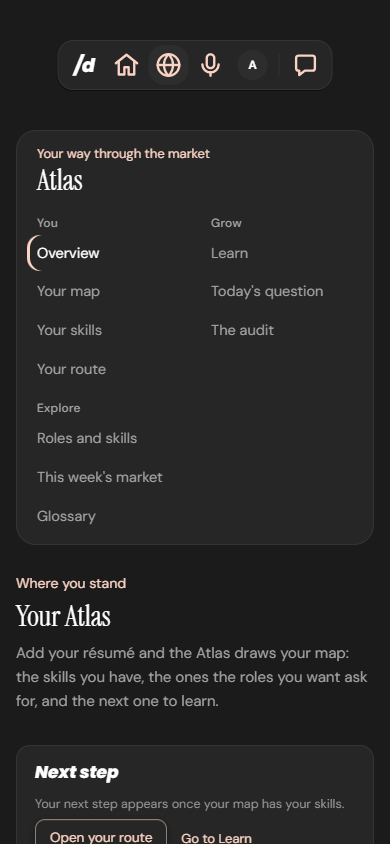
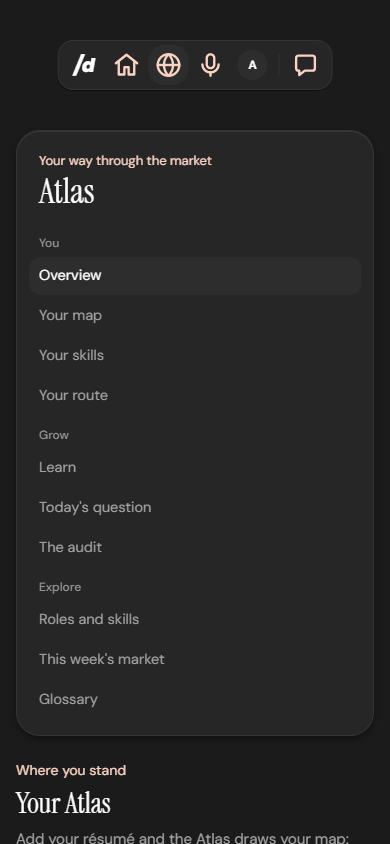
D178: Atlas nav regrouped into You and Grow; old addresses redirect
D178: the Atlas nav regrouped - You = Your run, Your map, Your skills; Grow = Library, Today's question, The audit; the old addresses redirect

The redirects D178-1 held back until each new home existed:
- /atlas/your-route is an alias of Your map; the navigator (D143) is drawn inside Your map, under the track board.
- Overview leaves the nav: signed out it stays Atlas's front page (/atlas, /atlas/overview); signed in the mount opens Your run.
- /atlas/learn redirects to /atlas/library/silicon-to-software?view=circle, the #step-<id> carried; the course page gains
  Modules / The circle tabs, The circle mounting the full Learn view (circle, path, patterns, concept index).
- panelFor: "overview" and "learn" left PANEL_IDS and fell through to Roles and skills; they now light the front page and
  the Library. Overview's stat cards and links point at Your map / the Library directly.

Pins changed on purpose: d167 nav groups + panelFor + surfaces, d115 (LearnView's mount), d172 (the route between the board
and the tree), d178 (the redirects asserted, not deferred). docs/D178_ATLAS_INVENTORY.md and docs/D167_ATLAS_MAP.md updated.

Verified: 412 Atlas / Learn / guard tests, 411 / 1 (the known d118, the untracked practice-questions draft); vite build;
real Chrome on a local draft (throwaway DB copy, a synthetic account) at 1440 and 390, signed out and in: /atlas, /atlas/overview,
[…]

diff --git a/client/src/pages/atlas/AtlasPage.jsx b/client/src/pages/atlas/AtlasPage.jsx
@@ -13,16 +13,15 @@
 // then "To reach the next level"; its definition shows on top when one exists, and no "not written yet" line otherwise.
 // Every colour is a theme token (AtlasPage.css); no pills — marks and depth boxes (D60).
 import { useEffect, useState } from "react";
-import { Link, useLocation, useNavigate } from "react-router-dom";
+import { Link, Navigate, useLocation, useNavigate } from "react-router-dom";
 import ScrollDock from "../../components/ScrollDock.jsx";
 import { Footer } from "../../components/Footer.jsx";
 import DepthButton from "../../components/DepthButton.jsx";
 import { BRAND } from "../../../../shared/brand.js";
 import AtlasGraph from "./AtlasGraph.jsx";
-import LearnView from "./LearnView.jsx";
 import YourMap, { RoleMap, FamilyMap } from "./YourMap.jsx";
 import PlaceNav from "../../components/PlaceNav.jsx";
-import { OverviewPanel, YourSkillsSlot, YourRoutePanel, LearnStages, TodaysQuestionPanel, AuditPanel, RolesPanel, MarketPanel, GlossaryPanel,
+import { OverviewPanel, YourSkillsSlot, YourRoutePanel, TodaysQuestionPanel, AuditPanel, RolesPanel, MarketPanel, GlossaryPanel,
   PanelHead } from "./AtlasPanels.jsx";
 import { panelFor, isPanelSlug, PANEL_LABEL, ATLAS_NAV, panelHref, courseIdOf } from "./atlasPanels.js";
 import { LibraryShelf, CoursePage, COURSES } from "./LibraryPanel.jsx";
@@ -387,8 +386,9 @@ export default function AtlasPage({ base = "/atlas", publicChrome = false }) {
   // panel it opens. Every address lights the panel it belongs to (atlasPanels.js panelFor); the older addresses keep
   // working — a node page and a search open in Roles and skills, a family in Your map, /learn in Learn, /check in Your
   // skills. docs/D167_ATLAS_MAP.md maps every surface that existed to its panel.
-  const panel = panelFor(slug, q);
   const signedIn = base.startsWith("/app");
+  // ⭐ D178: signed in, Atlas opens on Your run (Overview is the signed-out front page).
+  const panel = panelFor(slug, q) === "overview" && signedIn ? "your-run" : panelFor(slug, q);
   const panelOnly = !slug ? !q : (isPanelSlug(slug) && !learning && !checking);
   const body = (
     <main className={`atl atl--panels${wide ? " atl--wide" : ""}`} data-atlas-page={learning ? "learn" : checking ? "check" : familyKey ? "family" : courseId ? "course" : panelOnly ? "panel" : slug ? "node" : "search"}
@@ -401,12 +401,16 @@ export default function AtlasPage({ base = "/atlas", publicChrome = false }) {
           pages are Roles and skills', the navigator is Your route's. A query is the search page as before. */}
       {!slug && q && <AtlasSearch base={base} q={q} />}
       {panelOnly && panel === "overview" && <OverviewPanel base={base} />}
+      {/* ⭐ D178: Learn's address → the course's circle view, the same piece selected (#step-<id> carried). */}
+      {learning && <Navigate replace to={`${base}/library/silicon-to-software?view=circle${location.hash || ""}`} />}
       {panel === "your-map" && !familyKey && (
         <div className="atl-pan" data-atlas-panel-body="your-map">
           {/* ⭐ D172 (4): the map as a track board first — from you to your goal; the market tree below, on demand. */}
           {signedIn && <PanelHead eyebrow="Your map" title="A clear picture of where you are"
             lead="From what you have to where you're going." />}
           <TrackBoard base={base} signedIn={signedIn} />
+          {/* ⭐ D178: Your route folded in — the aim, the route in order, the roles to apply to meanwhile (D143's navigator). */}
+          {signedIn && <section className="atl__section" data-atlas-route-in-map=""><YourRoutePanel base={base} signedIn={signedIn} /></section>}
           <details className="atl-more" data-atlas-market-tree="" open={!signedIn}>
             <summary className="atl__link">See the whole market around you</summary>
             <PanelHead eyebrow="Your map" title="Your skills, against the market"
@@ -416,8 +420,6 @@ export default function AtlasPage({ base = "/atlas", publicChrome = false }) {
         </div>
       )}
       {panel === "your-skills" && <YourSkillsSlot signedIn={signedIn} base={base} />}
-      {panel === "your-route" && <YourRoutePanel base={base} signedIn={signedIn} />}
-      {learning && <LearnStages base={base} signedIn={signedIn} />}
       {panel === "todays-question" && <TodaysQuestionPanel base={base} />}
       {panel === "the-audit" && <AuditPanel base={base} />}
       {panel === "roles-and-skills" && panelOnly && (
@@ -425,7 +427,6 @@ export default function AtlasPage({ base = "/atlas", publicChrome = false }) {
       )}
       {panel === "this-weeks-market" && <MarketPanel base={base} />}
       {panel === "glossary" && <GlossaryPanel base={base} />}
-      {learning && <LearnView signedIn={base.startsWith("/app")} />}
       {familyKey && <FamilyMap base={base} familyKey={familyKey} />}
       {panel === "your-run" && <YourRun base={base} signedIn={signedIn} />}
       {panel === "library" && panelOnly && <LibraryShelf base={base} signedIn={signedIn} />}

diff --git a/test/d167Atlas.test.js b/test/d167Atlas.test.js
@@ -85,9 +85,11 @@ function mapWorld() {
 test("D167 · d167AtlasHasOwnNav — the card: the eyebrow, the serif headline, three groups in the sketch's order", async () => {
   assert.deepEqual(ATLAS_NAV.map(g => [g.group, g.panels.map(p => p.label)]), [
     // ⭐ D172 (3) (changed on purpose): Your run, first in You, as the approved sketch draws it.
-    ["You", ["Your run", "Overview", "Your map", "Your skills", "Your route"]],
+    // ⭐ D178 (changed on purpose, the nav regrouped): Overview is the signed-out front page; Your route is in Your map.
+    ["You", ["Your run", "Your map", "Your skills"]],
     // ⭐ D172 (2) (changed on purpose): the Library, first in Grow, as the approved sketch draws it.
-    ["Grow", ["Library", "Learn", "Today's question", "The audit"]],
+    // ⭐ D178 (changed on purpose): Learn is the course's circle view, inside the Library.
+    ["Grow", ["Library", "Today's question", "The audit"]],
     ["Explore", ["Roles and skills", "This week's market", "Glossary"]],
   ]);
   const u = await loadUi();
@@ -147,7 +149,10 @@ test("D167 · d167AtlasKeepsEverySurface — every older address still opens, an
   assert.equal(panelFor("kubernetes"), "roles-and-skills", "a node's page");
   assert.equal(panelFor("data-engineer"), "roles-and-skills", "a role's page");
   assert.equal(panelFor("family/data"), "your-map", "a family's page");
-  assert.equal(panelFor("learn"), "learn");
+  // ⭐ D178 (changed on purpose): /atlas/learn redirects to the course's circle view and lights the Library.
+  assert.equal(panelFor("learn"), "library");
+  assert.equal(panelFor("your-route"), "your-map", "D178: Your route is folded into Your map");
+  assert.equal(panelFor("overview"), "overview", "D178: /atlas/overview is still the front page");
   assert.equal(panelFor("check"), "your-skills", "D142's check");
   assert.ok(isPanelSlug("check") && isPanelSlug("glossary") && !isPanelSlug("kubernetes") && !isPanelSlug("family/data"));
   const u = await loadUi();
@@ -173,8 +178,11 @@ test("D167 · d167AtlasKeepsEverySurface — each existing surface is mounted by
   assert.match(page, /\{!slug && q && <AtlasSearch base=\{base\} q=\{q\} \/>\}/);
   assert.match(page, /<AtlasNodeView base=\{base\} node=\{page\.node\}/);
   assert.match(page, /\{familyKey && <FamilyMap base=\{base\} familyKey=\{familyKey\} \/>\}/);
-  assert.match(page, /\{learning && <LearnView signedIn=\{base\.startsWith\("\/app"\)\} \/>\}/);
-  assert.match(page, /\{learning && <LearnStages base=\{base\} signedIn=\{signedIn\} \/>\}/, "Learn: the sketch's stages, then the full view");
+  // ⭐ D178 (changed on purpose): Learn's address redirects to the course's circle view, which mounts the full Learn view.
+  assert.ok(page.includes('{learning && <Navigate replace to={`${base}/library/silicon-to-software?view=circle${location.hash || ""}`} />}'));
+  assert.ok(read("client/src/pages/atlas/LibraryPanel.jsx").includes('{view === "circle" && <div data-course-circle-view=""><LearnView signedIn={signedIn} /></div>}'));
+  // ⭐ D178: Your route's navigator is drawn inside Your map.
+  assert.ok(page.includes('{signedIn && <section className="atl__section" data-atlas-route-in-map=""><YourRoutePanel base={base} signedIn={signedIn} /></section>}'));
   // 5, 8, 10, 12 · Your map: the tree, the course, the sections, the families (and the signed-out line + course).
   assert.match(page, /\{panel === "your-map" && !familyKey && \(/);
   assert.match(page, /<YourMap base=\{base\} parts=\{\{ navigator: false, explore: false, families: true, recent: false \}\} \/>/);
@@ -224,7 +232,7 @@ test("D167 · panels whose feature is not built say so, and draw only numbers th
   // Overview: stat cards only from the readiness record and the navigator; no streak, no invented count.
   assert.deepEqual(overviewStats({}), []);
   const stats = overviewStats({ readiness: [{ state: "checked" }, { state: "built" }, { state: "claimed" }], nav: { ready: true, bridges: [{}, {}], route: { role: "Data Engineer", skills: [{}, {}, {}] } } });
-  assert.deepEqual(stats.map(s => [s.value, s.panel]), [["2 of 3", "your-skills"], ["2", "your-route"], ["3", "your-route"]]);
+  assert.deepEqual(stats.map(s => [s.value, s.panel]), [["2 of 3", "your-skills"], ["2", "your-map"], ["3", "your-map"]]);
   const out = u.overview({ me: { signedIn: false } });
   assert.doesNotMatch(out, /data-atlas-overview-stats/);
   assert.match(out, /The daily question is not built yet/);

diff --git a/client/src/pages/atlas/atlasPanels.js b/client/src/pages/atlas/atlasPanels.js
@@ -13,15 +13,12 @@ export const ATLAS_NAV = Object.freeze([
   { group: "You", panels: [
     // ⭐ D172 (3): Your run — your level, points from proof, streak and today's quests.
     { id: "your-run", label: "Your run" },
-    { id: "overview", label: "Overview" },
     { id: "your-map", label: "Your map" },
     { id: "your-skills", label: "Your skills" },
-    { id: "your-route", label: "Your route" },
   ] },
   { group: "Grow", panels: [
     // ⭐ D172 (2): the Library — the courses as a shelf; /atlas/library/<course> is a course's page.
     { id: "library", label: "Library" },
-    { id: "learn", label: "Learn" },
     { id: "todays-question", label: "Today's question" },
     { id: "the-audit", label: "The audit" },
   ] },
@@ -35,7 +32,11 @@ export const ATLAS_NAV = Object.freeze([
 export const PANEL_IDS = Object.freeze(ATLAS_NAV.flatMap(g => g.panels.map(p => p.id)));
 export const PANEL_LABEL = Object.freeze(Object.fromEntries(ATLAS_NAV.flatMap(g => g.panels.map(p => [p.id, p.label]))));
 /** Older reserved addresses that now open a panel. */
-export const PANEL_ALIASES = Object.freeze({ check: "your-skills" });
+// ⭐ D178 (the nav regrouped, owner 11-07): Your route is folded into Your map (the map IS the route drawn) — its address
+// opens Your map. Overview is Atlas's signed-OUT front page (signed in, the mount opens Your run); Learn's address
+// redirects to the course's circle view (AtlasPage). Both stay reserved slugs, so no node can take them.
+export const PANEL_ALIASES = Object.freeze({ check: "your-skills", "your-route": "your-map" });
+export const RESERVED_PANELS = Object.freeze(["overview", "learn"]);
 
 /** The panel an Atlas address belongs to. `slug` is the path after the mount ("" for the mount itself). */
 export function panelFor(slug, q = "") {
@@ -43,13 +44,17 @@ export function panelFor(slug, q = "") {
   if (!s) return q ? "roles-and-skills" : "overview";
   if (PANEL_IDS.includes(s)) return s;
   if (PANEL_ALIASES[s]) return PANEL_ALIASES[s];
+  // ⭐ D178: the reserved slugs light their home — /atlas/overview is the front page; /atlas/learn (redirecting to the
+  // course's circle view) lights the Library, never Roles and skills.
+  if (s === "overview") return "overview";
+  if (s === "learn") return "library";
   if (s.startsWith("family/")) return "your-map";
   if (s.startsWith("library/")) return "library";
   return "roles-and-skills";
 }
 
 /** Is this address a panel itself (not a node, a family or a search inside one)? */
-export const isPanelSlug = (slug) => PANEL_IDS.includes(String(slug || "")) || !!PANEL_ALIASES[String(slug || "")];
+export const isPanelSlug = (slug) => PANEL_IDS.includes(String(slug || "")) || !!PANEL_ALIASES[String(slug || "")] || RESERVED_PANELS.includes(String(slug || ""));
 
 /** A panel's address under a mount. Overview is the mount itself (/atlas/overview works too). */
 export const panelHref = (base, id) => (id === "overview" ? base : `${base}/${id}`);
@@ -78,8 +83,8 @@ export function overviewStats({ readiness = null, nav = null } = {}) {
     out.push({ id: "skills", value: `${proven} of ${readiness.length}`, label: "skills checked or built", panel: "your-skills" });
   }
   if (nav?.ready) {
-    if (Array.isArray(nav.bridges)) out.push({ id: "bridges", value: String(nav.bridges.length), label: "roles you cover enough to apply to now", panel: "your-route" });
-    if (nav.route?.skills?.length) out.push({ id: "route", value: String(nav.route.skills.length), label: `skills on your route${nav.route.role ? ` to ${nav.route.role}` : ""}`, panel: "your-route" });
+    if (Array.isArray(nav.bridges)) out.push({ id: "bridges", value: String(nav.bridges.length), label: "roles you cover enough to apply to now", panel: "your-map" });
+    if (nav.route?.skills?.length) out.push({ id: "route", value: String(nav.route.skills.length), label: `skills on your route${nav.route.role ? ` to ${nav.route.role}` : ""}`, panel: "your-map" });
   }
   return out;
 }

diff --git a/client/src/pages/atlas/LibraryPanel.jsx b/client/src/pages/atlas/LibraryPanel.jsx
@@ -5,7 +5,8 @@
 // Honest by construction: one course exists (the owner's path), so the shelf shows one cover — no "Soon" covers for
 // courses nobody has planned; no "5 slides" or minutes until a lesson has a deck or a length; progress is EARNED.
 import { useEffect, useMemo, useState } from "react";
-import { Link } from "react-router-dom";
+import { Link, useLocation, useNavigate } from "react-router-dom";
+import LearnView from "./LearnView.jsx";
 import { api } from "../../lib/api.js";
 import { courseProgress, firstOpenModule, lessonState, linkLine } from "./libraryModel.js";
 import { GuideLadder, useGuides } from "./LibraryGuides.jsx";
@@ -85,6 +86,12 @@ export function CoursePage({ base, id, signedIn = false }) {
   useEffect(() => { if (course) { const m = firstOpenModule(course, marks); setOpen(m); setSel(s => s ?? m); } }, [course, marks]);
   useEffect(() => { let live = true; api("/api/learn/circle").then(c => live && setCircle(c)).catch(() => {}); return () => { live = false; }; }, []);
   const titles = useMemo(() => new Map((course?.modules || []).flatMap(m => m.lessons.map(l => [l.id, l.title]))), [course]);
+  // ⭐ D178: two views of the one course — Modules (the half ring, the deck, the list) and The circle (the whole course at a
+  // glance: Learn's circle, its path, patterns and concept index, until each moves to its own home). ?view=circle#step-<id>.
+  const location = useLocation();
+  const navigate = useNavigate();
+  const view = new URLSearchParams(location.search).get("view") === "circle" ? "circle" : "modules";
+  const setView = (v) => navigate({ search: v === "circle" ? "?view=circle" : "", hash: location.hash }, { replace: true });
   if (error) return <p className="atl__quiet" role="alert" data-course-missing="">{/no_such_course|404/.test(error) ? "There is no course by that name." : error} <Link to={`${base}/library`} className="atl__link">Back to the library</Link></p>;
   if (!course) return <p className="atl__quiet" role="status">Opening the course…</p>;
   return (
@@ -100,6 +107,12 @@ export function CoursePage({ base, id, signedIn = false }) {
           <p className="atl__quiet" data-course-lit="">{progress.done} of {progress.total} lit{signedIn ? "" : " · sign in to light them"}</p>
         </div>
       </header>
+      <div className="rr-tabs lib-views" role="tablist" aria-label="View the course" data-course-views="">
+        <button type="button" role="tab" aria-selected={view === "modules"} aria-pressed={view === "modules"} onClick={() => setView("modules")} data-course-view="modules">Modules</button>
+        <button type="button" role="tab" aria-selected={view === "circle"} aria-pressed={view === "circle"} onClick={() => setView("circle")} data-course-view="circle">The circle</button>
+      </div>
+      {view === "circle" && <div data-course-circle-view=""><LearnView signedIn={signedIn} /></div>}
+      {view === "modules" && <>
       {/* ⭐ D178-3 (owner's pick: Idea C) — the half ring picks the module; its lessons are a deck. */}
       {sel != null && <HalfRing course={course} marks={marks} progress={progress} module={sel} onModule={setSel} />}
       {sel != null && (
@@ -148,6 +161,7 @@ export function CoursePage({ base, id, signedIn = false }) {
           </section>
         );
       })}
+      </>}
       <p><Link to={`${base}/library`} className="atl__link" data-course-back="">← Back to the library</Link></p>
     </article>
   );

diff --git a/test/d178EveryOldAddressRedirects.test.js b/test/d178EveryOldAddressRedirects.test.js
@@ -32,13 +32,20 @@ test("d178NoOldFeatureUnreachable: every reader-facing Atlas and Learn route is 
 });
 
 test("d178EveryOldAddressRedirects: today, every old address still resolves to its own feature (nothing 404s)", () => {
-  for (const id of PANEL_IDS) assert.equal(panelFor(id === "overview" ? "" : id), id, id);
+  for (const id of PANEL_IDS) assert.equal(panelFor(id), id, id);
   assert.equal(panelFor("check"), "your-skills");
   assert.equal(panelFor("family/data"), "your-map");
   assert.equal(panelFor("kafka"), "roles-and-skills");
   assert.equal(panelFor("", "kafka"), "roles-and-skills");
   assert.equal(courseIdOf("library/silicon-to-software"), "silicon-to-software");
-  assert.ok(isPanelSlug("learn"), "/atlas/learn still opens Learn until its redirect (D178-3)");
+  // ⭐ D178 (45j, changed on purpose): the redirects are in — each old address resolves to its new home.
+  assert.ok(isPanelSlug("learn") && isPanelSlug("overview") && isPanelSlug("your-route"), "the old slugs stay reserved");
+  assert.equal(panelFor("learn"), "library", "/atlas/learn → the course's circle view");
+  assert.equal(panelFor("your-route"), "your-map", "/atlas/your-route → Your map");
+  assert.equal(panelFor("overview"), "overview");
+  const page = read("client/src/pages/atlas/AtlasPage.jsx");
+  assert.ok(page.includes('{learning && <Navigate replace to={`${base}/library/silicon-to-software?view=circle${location.hash || ""}`} />}'), "Learn's redirect keeps #step-<id>");
+  assert.ok(page.includes('const panel = panelFor(slug, q) === "overview" && signedIn ? "your-run" : panelFor(slug, q);'), "signed in, Atlas opens on Your run");
   const route = /^atlas(?:\/(?:family|library))?(?:\/[^/]+)?$/;
   assert.ok(read("client/src/App.jsx").includes(String.raw`const atlasRoute = /^atlas(?:\/(?:family|library))?(?:\/[^/]+)?$/.test(routeKey);`), "App.jsx's route rule is the one tested here");
   for (const a of ["atlas", "atlas/your-route", "atlas/learn", "atlas/family/data", "atlas/library/sw-f-01", "atlas/kafka"]) assert.match(a, route, `/app/${a} is not bounced`);

diff --git a/test/d172MapTrackBoard.test.js b/test/d172MapTrackBoard.test.js
@@ -34,7 +34,8 @@ test("d172MapTrackBoardWithStations: the loop — top row left to right, the tur
 
 test("d172MapTrackBoardWithStations: wired — Your map leads with the board; the tree is kept, on demand; the navigator sends the stations", () => {
   const page = read("client/src/pages/atlas/AtlasPage.jsx");
-  assert.match(page, /<TrackBoard base=\{base\} signedIn=\{signedIn\} \/>\n\s*<details className="atl-more" data-atlas-market-tree="" open=\{!signedIn\}>/);
+  // ⭐ D178 (changed on purpose): Your route's navigator sits between the board and the tree.
+  assert.match(page, /<TrackBoard base=\{base\} signedIn=\{signedIn\} \/>\n[\s\S]{0,400}<YourRoutePanel base=\{base\} signedIn=\{signedIn\} \/><\/section>\}\n\s*<details className="atl-more" data-atlas-market-tree="" open=\{!signedIn\}>/);
   assert.match(page, /<summary className="atl__link">See the whole market around you<\/summary>/);
   assert.match(read("services/navigator.js"), /route: route \? \{ \.\.\.route, stations, openRoles: aimReading\?\.role\?\.postings \?\? null \} : null/);
   const css = read("client/src/pages/atlas/TrackBoard.css");

diff --git a/client/src/pages/atlas/AtlasPanels.jsx b/client/src/pages/atlas/AtlasPanels.jsx
@@ -77,8 +77,8 @@ export function OverviewView({ base, me, nav = null, readiness = null }) {
           {next ? <p className="atl-pan__line">{next.text}</p>
             : <p className="atl__quiet">{signedIn ? "Your next step appears once your map has your skills." : "Sign in with a résumé and the Atlas points the way."}</p>}
           <p className="atl-pan__actions">
-            <Link className="dbx-depth atl-home__go" to={panelHref(base, "your-route")}>Open your route</Link>
-            <Link className="atl__link" to={panelHref(base, "learn")}>Go to Learn</Link>
+            <Link className="dbx-depth atl-home__go" to={panelHref(base, "your-map")}>Open your route</Link>
+            <Link className="atl__link" to={panelHref(base, "library")}>Go to the Library</Link>
           </p>
         </section>
         <section className="atl__section" data-atlas-overview-question="">

diff --git a/test/d115Learn.test.js b/test/d115Learn.test.js
@@ -217,7 +217,8 @@ test("D115 P3 · d115LocalWhenSignedOut — ⭐ D117 C8 (changed on purpose): si
   assert.equal(nextStep(steps, all).id, steps[1].id);
   const firstAdv = steps.find(s => s.lv === "a");
   assert.notEqual(nextStep(steps.filter(s => s.n >= firstAdv.n), {}, { basicsOnly: true }).lv, "a", "Basics first skips advanced steps");
-  assert.match(read("client/src/pages/atlas/AtlasPage.jsx"), /\{learning && <LearnView signedIn=\{base\.startsWith\("\/app"\)\} \/>\}/);
+  // ⭐ D178 (changed on purpose): the Learn view lives in the course page's circle view; /atlas/learn redirects there.
+  assert.ok(read("client/src/pages/atlas/LibraryPanel.jsx").includes("<LearnView signedIn={signedIn} />"));
   // The Concepts view's search is the one normaliser.
   assert.equal(searchConcepts(LEARN.INDEX, "logic gates")[0].term, "Logic gate");
 });

diff --git a/docs/D178_ATLAS_INVENTORY.md b/docs/D178_ATLAS_INVENTORY.md
@@ -5,25 +5,27 @@ address, panel, tab and reader-facing API of the Atlas as it stands on 2026-11-0
 in the redesign (D178's translation table). `test/d178EveryOldAddressRedirects.test.js` fails when an address, a
 panel, a Learn view or a reader-facing route is missing from this file, or when an address stops resolving.
 
-**Today, nothing is loose:** every row's address still opens its feature. **The redirects** (*Your route* → *Your
-map*, *Overview* → *Your run*, *Learn* → the course's circle view) **move with D178-3**, when each new home exists.
-Redirecting earlier would leave the circle and the navigator's extras unreachable, which is the thing D178 forbids.
+**Today, nothing is loose:** every row's address still opens its feature. ✅ **The redirects are in (45j, the nav
+regrouped):** *Your route* → *Your map* (an alias; the navigator is drawn inside Your map, under the track board),
+*Overview* → *Your run* when signed in (signed out, Overview stays Atlas's front page), *Learn* → the course's circle
+view (`/atlas/library/silicon-to-software?view=circle`, the `#step-<id>` carried). They waited for D178-3 so that the
+circle and the navigator's extras were never unreachable, which is the thing D178 forbids.
 
 ## Addresses and panels (`/atlas/…` and `/app/atlas/…`)
 
 | Address | What it is today | Its home in the redesign (D178) | Redirect |
 |---|---|---|---|
-| `/atlas` (`overview`) | Overview panel | **Folded into Your run** (Atlas's front page); market numbers → This week's market | D178-3 |
+| `/atlas` (`overview`) | Overview panel | **Folded into Your run** (Atlas's front page); market numbers → This week's market | ✅ signed in → Your run; signed out, the front page (45j) |
 | `/atlas/your-run` | Your run (D172 (3)) | stays — You · first | — |
 | `/atlas/your-map` | the track board (D172 (4)) + the market tree under *See the whole market around you* | stays — the tree moves to **Your skills → Map view**, full width, three states | D178-3 (the tree) |
 | `/atlas/your-skills` (`check` alias) | D169's list + map, D142's readiness check | stays; its Map view becomes the radial tree's home | — |
-| `/atlas/your-route` | the navigator (D143): aim, route, bridges, progress, elsewhere | **Folded into Your map** (the map IS the route drawn) | D178-3 |
+| `/atlas/your-route` (`your-route` alias) | the navigator (D143): aim, route, bridges, progress, elsewhere | **Folded into Your map** (the map IS the route drawn) | ✅ → Your map, the navigator under the track board (45j) |
 | `/atlas/library` | the ladder of guides + the course shelf (D172 (2), (2b)) | stays — Grow · first | — |
 | `/atlas/library/<course>` | a course: modules → lessons | stays; gains **The circle** view and routes (D178-3) | — |
 | `/atlas/library/<guide>` | a guide (a level): its decks | stays | — |
 | `/atlas/library/<deck>` | a deck, one slide at a time | stays; the lesson card's deck gesture (D178-3) | — |
-| `/atlas/learn` | Learn: four views (below) | **Retired** → the course in the Library, circle view, same piece | D178-3 |
-| `/atlas/learn#step-<id>` | a piece, opened in the circle | → the course's circle view with that piece selected | D178-3 |
+| `/atlas/learn` | Learn: four views (below) | **Retired** → the course in the Library, circle view, same piece | ✅ → `/atlas/library/silicon-to-software?view=circle` (45j) |
+| `/atlas/learn#step-<id>` | a piece, opened in the circle | → the course's circle view with that piece selected | ✅ the hash carried (45j) |
 | `/atlas/todays-question` | Today's question (not built, D154) | stays — Grow | — |
 | `/atlas/the-audit` | the audit (D150) | stays — Grow | — |
 | `/atlas/roles-and-skills` | roles and skills + search | stays — Explore | — |

diff --git a/docs/D167_ATLAS_MAP.md b/docs/D167_ATLAS_MAP.md
@@ -6,8 +6,11 @@ build (lane `d167-atlas`, 45b) from the code as it stood at `3c74cead`, and `tes
 (`d167AtlasKeepsEverySurface`) holds the code to it.
 
 The navigation (`client/src/pages/atlas/atlasPanels.js` `ATLAS_NAV`, drawn by `AtlasNav.jsx`, the panels in
-`AtlasPanels.jsx`): **You** — Your run · Overview · Your map · Your skills · Your route — **Grow** — Library · Learn · Today's question · The
-audit — **Explore** — Roles and skills · This week's market · Glossary. Each panel is addressable: `/atlas/<panel>`
+`AtlasPanels.jsx`): **You** — Your run · Your map · Your skills — **Grow** — Library · Today's question · The
+audit — **Explore** — Roles and skills · This week's market · Glossary. ⭐ **D178 (45j, the nav regrouped):** Your route is
+an alias of Your map (the navigator drawn under the track board); Overview is the signed-out front page (signed in, the
+mount opens Your run); `/atlas/learn` redirects to the course's circle view (`/atlas/library/silicon-to-software?view=circle`,
+`#step-<id>` kept) — see `docs/D178_ATLAS_INVENTORY.md`. Each panel is addressable: `/atlas/<panel>`
 (public) and `/app/atlas/<panel>` (signed in); Overview is `/atlas` itself (and `/atlas/overview`).
 
 ## The mapping
